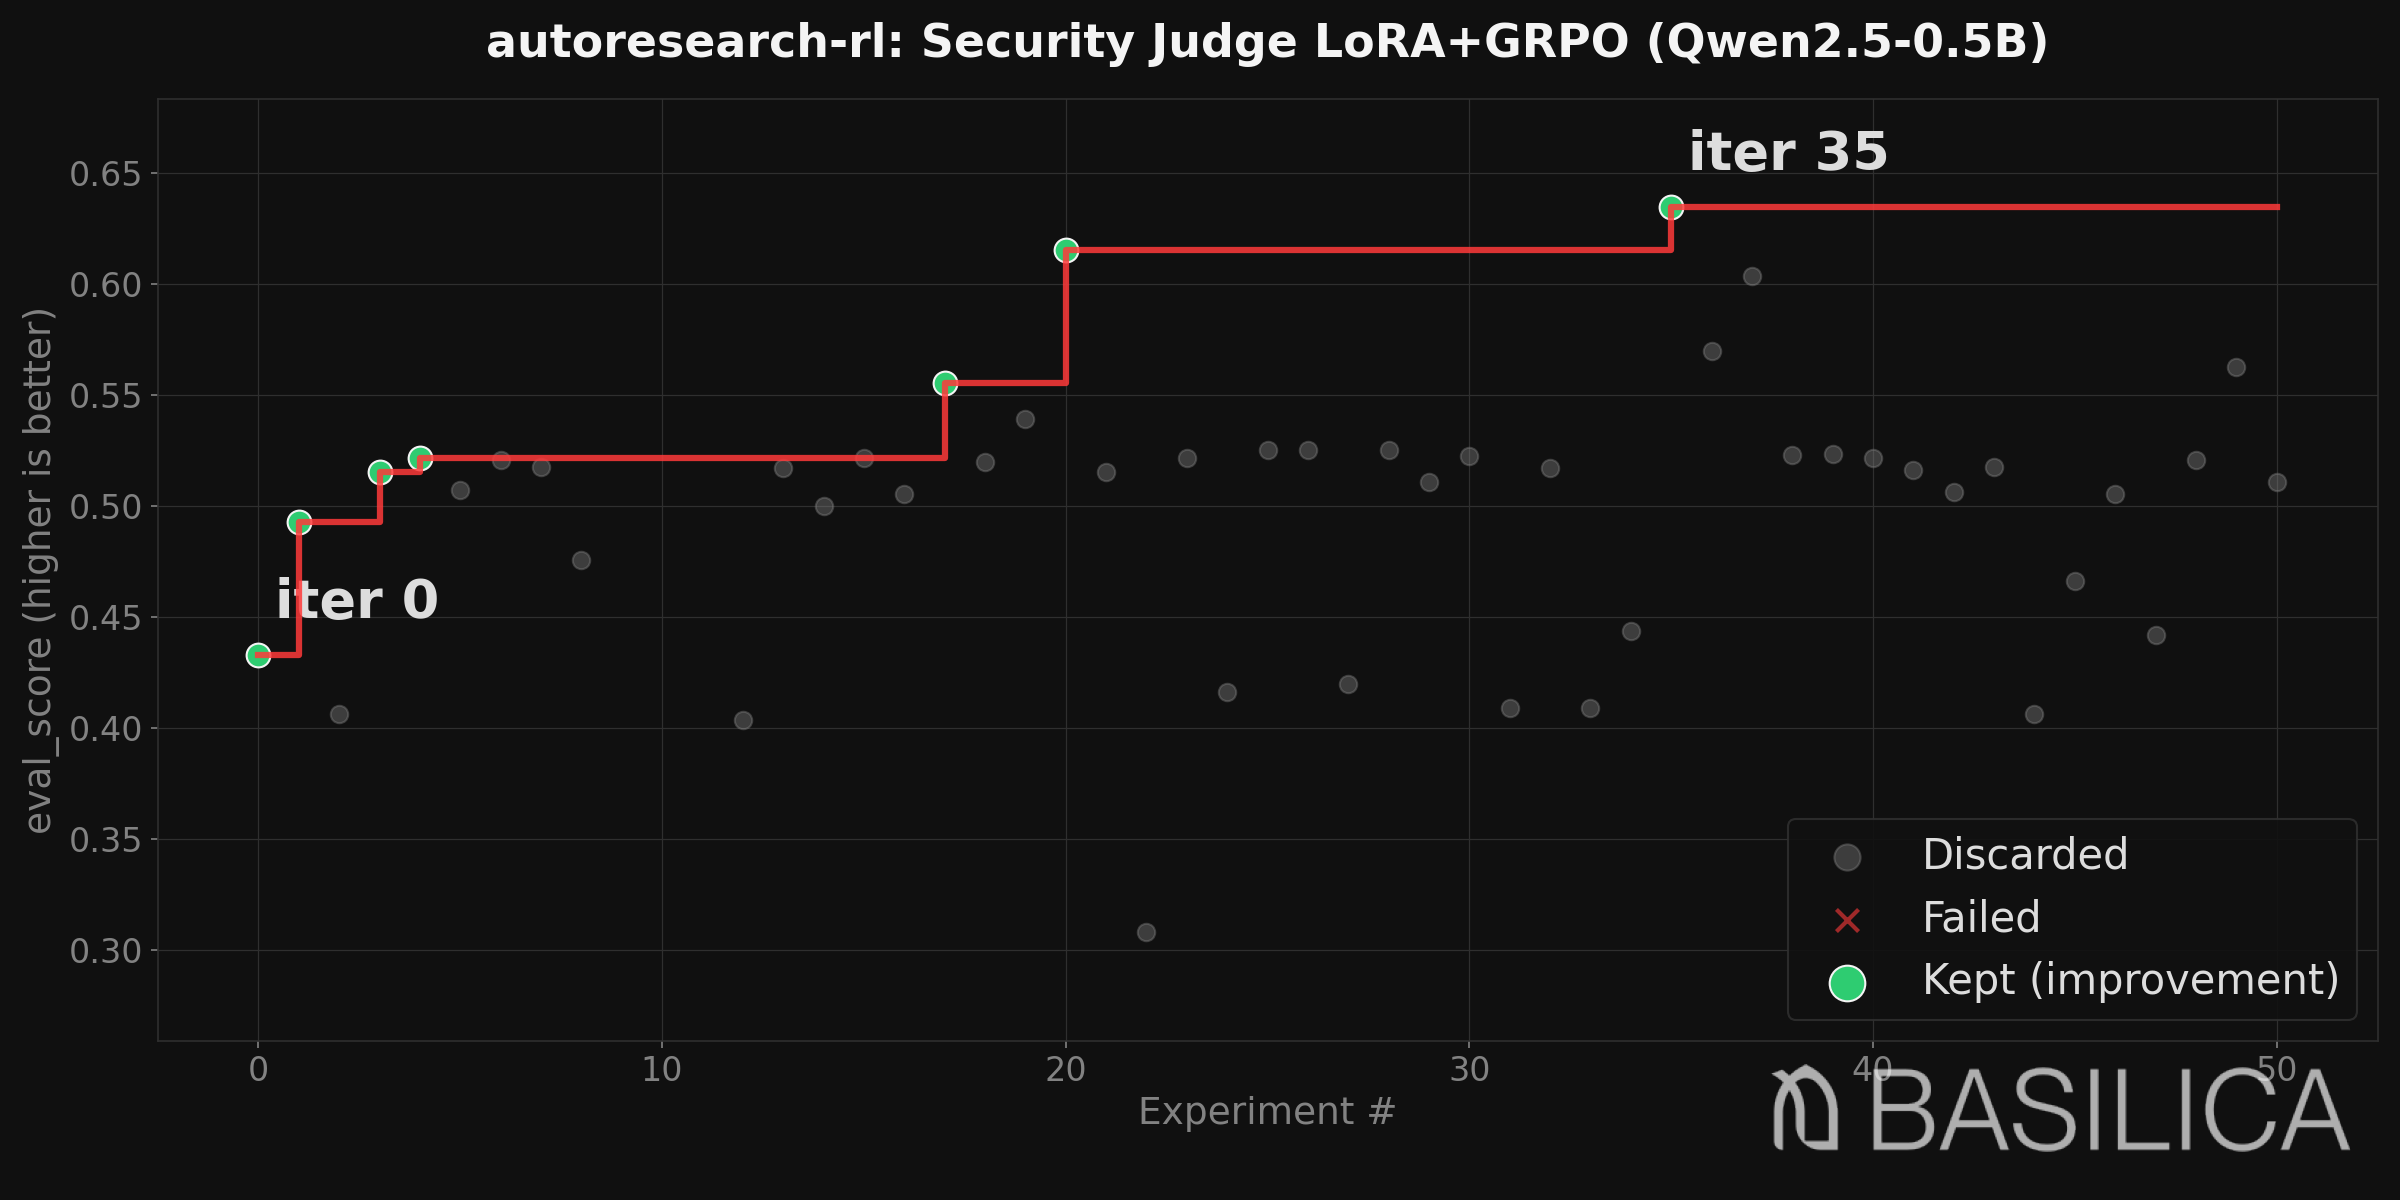
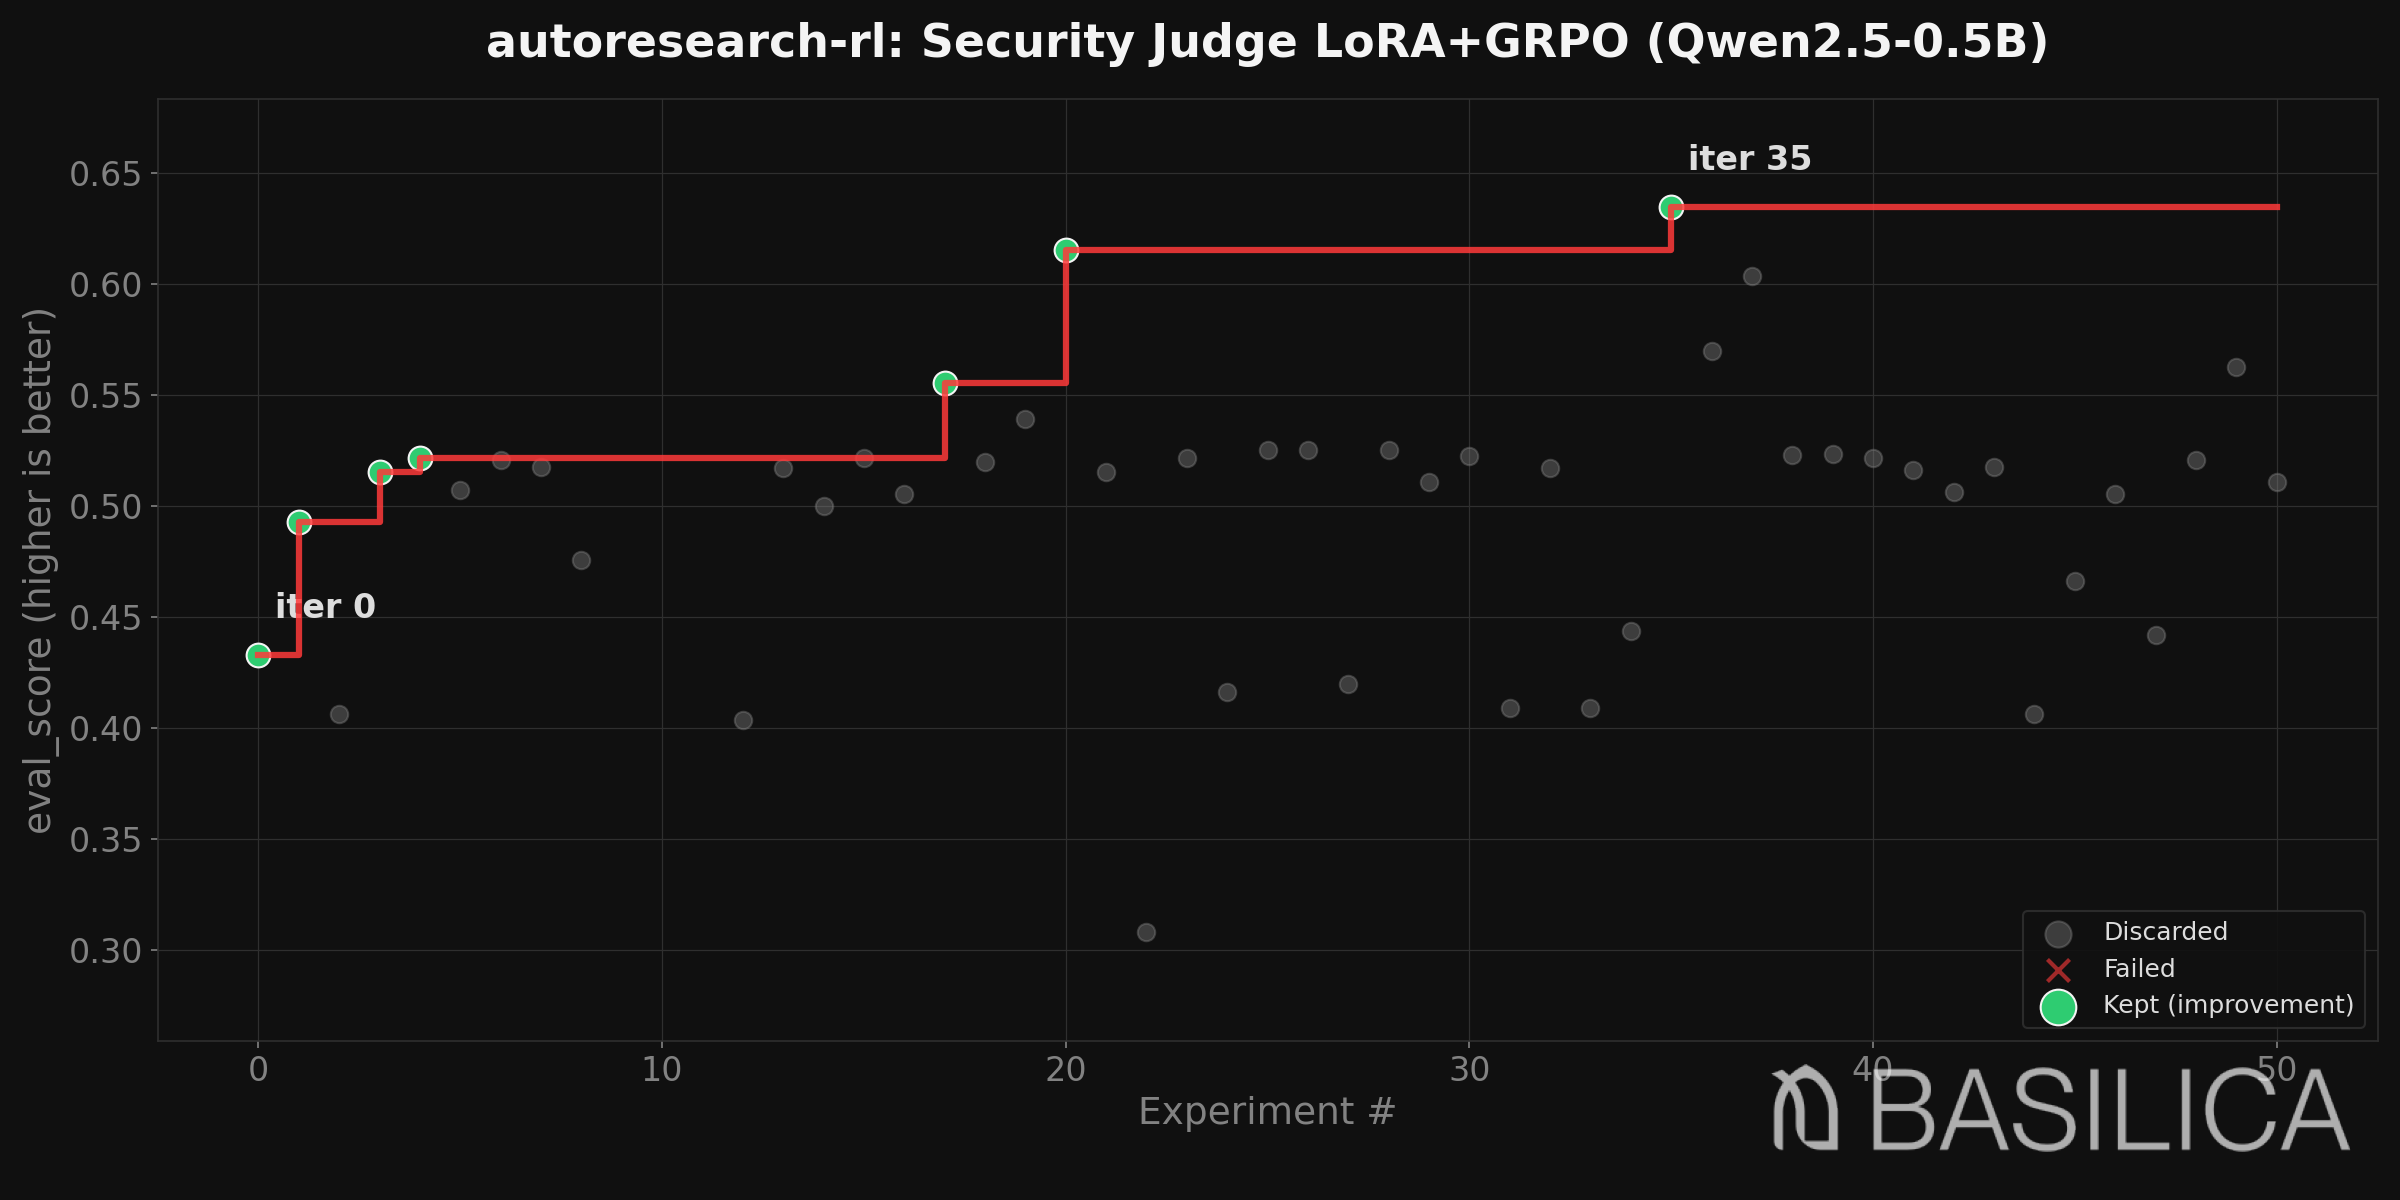
style: reduce datapoint label and legend font sizes by 40%

Changed region(s): [[0.75, 0.6783, 1.0, 0.8633], [0.6875, 0.0925, 0.7812, 0.1542], [0.0938, 0.4625, 0.1875, 0.5242]]

diff --git a/scripts/progress_chart.py b/scripts/progress_chart.py
@@ -176,7 +176,7 @@ def plot_progress(
             ax.annotate(
                 f"iter {row.iter}", (xi, yi),
                 textcoords="offset points", xytext=(8, 18),
-                fontsize=26, color=WHT100ALT, fontweight="bold",
+                fontsize=16, color=WHT100ALT, fontweight="bold",
             )
 
     n_total = len(rows)
@@ -195,7 +195,7 @@ def plot_progress(
 
     legend = ax.legend(
         loc="upper right" if direction == "min" else "lower right",
-        fontsize=20, framealpha=0.9, edgecolor=BLK800,
+        fontsize=12, framealpha=0.9, edgecolor=BLK800,
         facecolor=BLK1000, markerscale=1.5,
     )
     for text in legend.get_texts():
